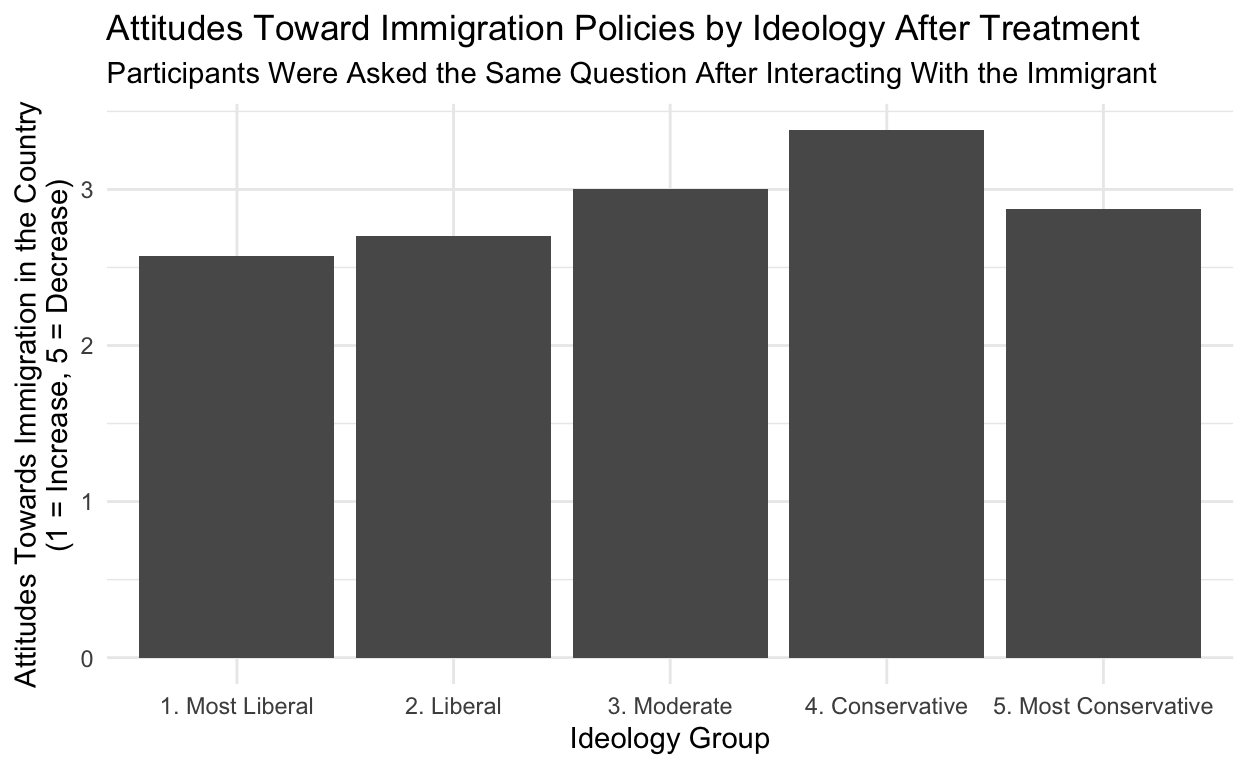
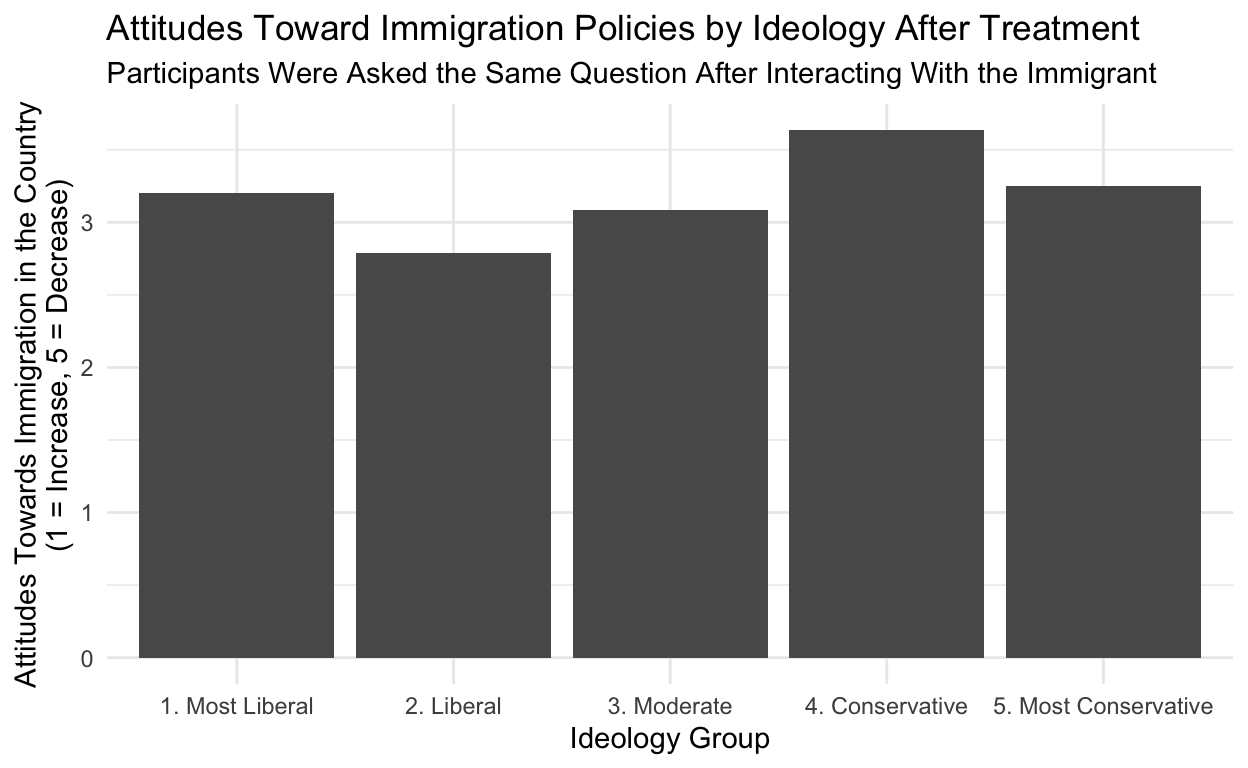
final project

diff --git a/index.html b/index.html
@@ -115,7 +115,7 @@ code span.wa { color: #5e5e5e; font-style: italic; } /* Warning */
   <!--/radix_placeholder_rmarkdown_metadata-->
   
   <script type="text/json" id="radix-resource-manifest">
-  {"type":"character","attributes":{},"value":["index_files/anchor-4.2.2/anchor.min.js","index_files/bowser-1.9.3/bowser.min.js","index_files/distill-2.2.21/template.v2.js","index_files/figure-html5/unnamed-chunk-4-1.png","index_files/figure-html5/unnamed-chunk-5-1.png","index_files/figure-html5/unnamed-chunk-6-1.png","index_files/figure-html5/unnamed-chunk-7-1.png","index_files/figure-html5/unnamed-chunk-8-1.png","index_files/header-attrs-2.17/header-attrs.js","index_files/header-attrs-2.28/header-attrs.js","index_files/header-attrs-2.29/header-attrs.js","index_files/jquery-3.6.0/jquery-3.6.0.js","index_files/jquery-3.6.0/jquery-3.6.0.min.js","index_files/jquery-3.6.0/jquery-3.6.0.min.map","index_files/popper-2.6.0/popper.min.js","index_files/tippy-6.2.7/tippy-bundle.umd.min.js","index_files/tippy-6.2.7/tippy-light-border.css","index_files/tippy-6.2.7/tippy.css","index_files/tippy-6.2.7/tippy.umd.min.js","index_files/webcomponents-2.0.0/webcomponents.js"]}
+  {"type":"character","attributes":{},"value":["index_files/anchor-4.2.2/anchor.min.js","index_files/bowser-1.9.3/bowser.min.js","index_files/distill-2.2.21/template.v2.js","index_files/figure-html5/unnamed-chunk-10-1.png","index_files/figure-html5/unnamed-chunk-4-1.png","index_files/figure-html5/unnamed-chunk-5-1.png","index_files/figure-html5/unnamed-chunk-6-1.png","index_files/figure-html5/unnamed-chunk-7-1.png","index_files/figure-html5/unnamed-chunk-8-1.png","index_files/figure-html5/unnamed-chunk-9-1.png","index_files/header-attrs-2.17/header-attrs.js","index_files/header-attrs-2.28/header-attrs.js","index_files/header-attrs-2.29/header-attrs.js","index_files/jquery-3.6.0/jquery-3.6.0.js","index_files/jquery-3.6.0/jquery-3.6.0.min.js","index_files/jquery-3.6.0/jquery-3.6.0.min.map","index_files/popper-2.6.0/popper.min.js","index_files/tippy-6.2.7/tippy-bundle.umd.min.js","index_files/tippy-6.2.7/tippy-light-border.css","index_files/tippy-6.2.7/tippy.css","index_files/tippy-6.2.7/tippy.umd.min.js","index_files/webcomponents-2.0.0/webcomponents.js"]}
   </script>
   <!--radix_placeholder_navigation_in_header-->
   <!--/radix_placeholder_navigation_in_header-->
@@ -1621,11 +1621,16 @@ code span.wa { color: #5e5e5e; font-style: italic; } /* Warning */
 3 3. Moderate                   3.08         3.33        -0.25  
 4 4. Conservative               3.64         3.55         0.0909
 5 5. Most Conservative          3.25         4           -0.75  </code></pre>
+<div class="sourceCode">
+<pre class="sourceCode r"><code class="sourceCode r"><span><span class='va'>trains</span> <span class='op'>&lt;-</span> <span class='va'>trains</span> <span class='op'>|&gt;</span></span>
+<span>   <span class='fu'><a href='https://dplyr.tidyverse.org/reference/mutate.html'>mutate</a></span><span class='op'>(</span>average_change <span class='op'>=</span> <span class='va'>numberim.post</span> <span class='op'>-</span> <span class='va'>numberim.pre</span><span class='op'>)</span></span></code></pre>
+</div>
 </div>
 <div class="layout-chunk" data-layout="l-body">
 <div class="sourceCode">
 <pre class="sourceCode r"><code class="sourceCode r"><span><span class='va'>pre_treatment</span> <span class='op'>&lt;-</span> <span class='va'>trains</span> <span class='op'>|&gt;</span></span>
 <span>  <span class='fu'><a href='https://dplyr.tidyverse.org/reference/mutate.html'>mutate</a></span><span class='op'>(</span>treatment <span class='op'>=</span> <span class='fu'><a href='https://dplyr.tidyverse.org/reference/if_else.html'>if_else</a></span><span class='op'>(</span><span class='va'>treatment</span> <span class='op'>==</span> <span class='fl'>1</span>, <span class='st'>"Treated"</span>, <span class='st'>"Control"</span><span class='op'>)</span><span class='op'>)</span> <span class='op'>|&gt;</span></span>
+<span>  <span class='fu'><a href='https://dplyr.tidyverse.org/reference/filter.html'>filter</a></span><span class='op'>(</span><span class='va'>treatment</span> <span class='op'>==</span> <span class='st'>"Treated"</span><span class='op'>)</span> <span class='op'>|&gt;</span></span>
 <span>  <span class='fu'><a href='https://dplyr.tidyverse.org/reference/group_by.html'>group_by</a></span><span class='op'>(</span><span class='va'>ideology_group</span><span class='op'>)</span> <span class='op'>|&gt;</span></span>
 <span>  <span class='fu'><a href='https://dplyr.tidyverse.org/reference/summarise.html'>summarize</a></span><span class='op'>(</span>numberim.pre <span class='op'>=</span> <span class='fu'><a href='https://rdrr.io/r/base/mean.html'>mean</a></span><span class='op'>(</span><span class='va'>numberim.pre</span>, na.rm <span class='op'>=</span> <span class='cn'>TRUE</span><span class='op'>)</span><span class='op'>)</span> <span class='op'>|&gt;</span></span>
 <span>  <span class='fu'><a href='https://dplyr.tidyverse.org/reference/mutate.html'>mutate</a></span><span class='op'>(</span>pre_treatment <span class='op'>=</span> <span class='va'>numberim.pre</span><span class='op'>)</span></span>
@@ -1634,16 +1639,17 @@ code span.wa { color: #5e5e5e; font-style: italic; } /* Warning */
 <pre><code># A tibble: 5 × 3
   ideology_group       numberim.pre pre_treatment
   &lt;chr&gt;                       &lt;dbl&gt;         &lt;dbl&gt;
-1 1. Most Liberal              2.57          2.57
-2 2. Liberal                   2.6           2.6 
-3 3. Moderate                  3.03          3.03
-4 4. Conservative              3.38          3.38
+1 1. Most Liberal              3             3   
+2 2. Liberal                   2.26          2.26
+3 3. Moderate                  3.33          3.33
+4 4. Conservative              3.55          3.55
 5 5. Most Conservative         4             4   </code></pre>
 </div>
 <div class="layout-chunk" data-layout="l-body">
 <div class="sourceCode">
 <pre class="sourceCode r"><code class="sourceCode r"><span><span class='va'>post_treatment</span> <span class='op'>&lt;-</span> <span class='va'>trains</span> <span class='op'>|&gt;</span></span>
 <span>  <span class='fu'><a href='https://dplyr.tidyverse.org/reference/mutate.html'>mutate</a></span><span class='op'>(</span>treatment <span class='op'>=</span> <span class='fu'><a href='https://dplyr.tidyverse.org/reference/if_else.html'>if_else</a></span><span class='op'>(</span><span class='va'>treatment</span> <span class='op'>==</span> <span class='fl'>1</span>, <span class='st'>"Treated"</span>, <span class='st'>"Control"</span><span class='op'>)</span><span class='op'>)</span> <span class='op'>|&gt;</span></span>
+<span>  <span class='fu'><a href='https://dplyr.tidyverse.org/reference/filter.html'>filter</a></span><span class='op'>(</span><span class='va'>treatment</span> <span class='op'>==</span> <span class='st'>"Treated"</span><span class='op'>)</span> <span class='op'>|&gt;</span></span>
 <span>  <span class='fu'><a href='https://dplyr.tidyverse.org/reference/group_by.html'>group_by</a></span><span class='op'>(</span><span class='va'>ideology_group</span><span class='op'>)</span> <span class='op'>|&gt;</span></span>
 <span>  <span class='fu'><a href='https://dplyr.tidyverse.org/reference/summarise.html'>summarize</a></span><span class='op'>(</span>numberim.post <span class='op'>=</span> <span class='fu'><a href='https://rdrr.io/r/base/mean.html'>mean</a></span><span class='op'>(</span><span class='va'>numberim.post</span>, na.rm <span class='op'>=</span> <span class='cn'>TRUE</span><span class='op'>)</span><span class='op'>)</span> <span class='op'>|&gt;</span></span>
 <span>  <span class='fu'><a href='https://dplyr.tidyverse.org/reference/mutate.html'>mutate</a></span><span class='op'>(</span>post_treatment <span class='op'>=</span> <span class='va'>numberim.post</span><span class='op'>)</span></span>
@@ -1652,11 +1658,11 @@ code span.wa { color: #5e5e5e; font-style: italic; } /* Warning */
 <pre><code># A tibble: 5 × 3
   ideology_group       numberim.post post_treatment
   &lt;chr&gt;                        &lt;dbl&gt;          &lt;dbl&gt;
-1 1. Most Liberal               2.57           2.57
-2 2. Liberal                    2.7            2.7 
-3 3. Moderate                   3              3   
-4 4. Conservative               3.38           3.38
-5 5. Most Conservative          2.88           2.88</code></pre>
+1 1. Most Liberal               3.2            3.2 
+2 2. Liberal                    2.79           2.79
+3 3. Moderate                   3.08           3.08
+4 4. Conservative               3.64           3.64
+5 5. Most Conservative          3.25           3.25</code></pre>
 </div>
 <h2 id="bar-graph-showing-participant-attitudes-toward-immigration-policies-before-treatment">Bar Graph Showing Participant Attitudes Toward Immigration Policies Before Treatment</h2>
 <div class="layout-chunk" data-layout="l-body">
@@ -1706,62 +1712,64 @@ code span.wa { color: #5e5e5e; font-style: italic; } /* Warning */
 <p><img src="index_files/figure-html5/unnamed-chunk-8-1.png" width="624" /></p>
 </div>
 <h2 id="results">Results</h2>
+<p>The table shows the average attitudes regarding immigration in the country before and after interacting with an immigrant from a scale of 1-5, where 1 represents the most pro-immigration attitudes and 5 represents the least pro-immigration attitudes. Additionally, it highlights the average change in attitudes for each ideology group due to this interaction. The table indicates that the most conservative participants were least supportive of increasing the number of immigrants in the country, while the most liberal participants were most supportive. This is to be expected, as the conservative ideology tends to be more supportive of stronger border control to limit the accessibility for immigrants to come into the country. The graph that represents the shift in attitudes regarding immigration policies after the participants interacted with the immigrant indicates that the participants in the “Most Conservative” ideology group had the greatest shift in attitudes compared to the other ideology groups. Additionally, the graph shows this ideology group had a significant negative shift, meaning that after they interacted with the immigrant, their attitudes shifted towards more pro-immigration policies, supporting my hypothesis. Finally, the last column in the table represents the attitudes of the participants after interacting with the immigrant. As I hypothesized, the attitudes regarding immigration policies after the treatment shows that the more liberal ideological groups tended to have a smaller shift in attitude. This is also consistent within liberal ideologies, as these political groups already tend to favor pro-immigration policies. Therefore, according to this data, political ideologies are associated with attitudes toward immigration policies. Furthermore, the “Most Conservative” ideology group had a much more significant shift in attitudes regarding these policies compared to the “Most Liberal” ideology group.</p>
+<h2 id="introduction">Introduction</h2>
+<p>My research observed how political ideologies are associated with attitudes toward immigration policies, specifically looking how the level of attitude shifts regarding these policies differed depending on the political demographic of the participant. My hypothesis is that the participants with more conservative ideologies will be initially less likely to support increasing the number of immigrants allowed in the country, but after interacting with foreigners they will have a greater positive shift in attitudes towards pro-immigration policies compared to those with democratic views. I expect that people who are more liberal will have a smaller shift after this interaction, as they already tend to favor pro-immigration policies.</p>
+<p>This is significant, particularly in our country where immigration is a very politically charged topic, as it may seek to explain how individuals’ beliefs and values evolve, while also bridging the current nation-wide political divide. By exploring how there may be some common ground between Conservatives and Liberals, this research may be able to help dismantle political polarization and enable greater opportunities for healthy discourse that can offer potential solutions to current policy debates, in this case regarding immigration.</p>
+<h2 id="data">Data</h2>
+<p>The data for this research comes from a randomized field experiment conducted by Harvard Professor, Ryan Enos. He focused on individuals from overwhelmingly white communities who rode the communal rail line, and explored how exposure to demographic change affected their political views. His study was published in the article “Causal Effect of Intergroup Contact on Exclusionary Attitudes.” In the experiment, the trains were randomly assigned to either the “Treated group” or the “Control group,” where the treatment involved the presence of two native Spanish-speaking confederates meant to simulate the predicted demographic change in the United States.</p>
+<p>The independent variable is the political ideologies of the participants, measured by the survey data for each participant from the experiment. Political ideologies are likely to impact individuals’ pre-existing beliefs, which would set a baseline for their attitudes towards immigration before treatment, and may impact their responses to treatment. Through this method, we can determine how the treatment effects differ depending on the participants’ political ideology.</p>
+<p>The dependent variable, the participants’ shift in attitudes regarding immigration policies, is measured using a survey question, on a 5 point scale, before and after the treatment. Participants were asked whether or not the number of immigrants in the country should increase or decrease, where 1 indicates the participant believes the number of immigrants should increase and 5 indicates the participant believes the number of immigrants should decrease. The attitude shift of each ideology group is represented by the difference between their responses before and after treatment.</p>
 <div class="layout-chunk" data-layout="l-body">
 <div class="sourceCode">
-<pre class="sourceCode r"><code class="sourceCode r"><span><span class='va'>attitude_change_summary</span> <span class='op'>&lt;-</span> <span class='va'>trains</span> <span class='op'>|&gt;</span></span>
-<span>  <span class='fu'><a href='https://dplyr.tidyverse.org/reference/summarise.html'>summarize</a></span><span class='op'>(</span></span>
-<span>    <span class='va'>pre_treatment</span>,</span>
-<span>    <span class='va'>average_change</span>,</span>
-<span>    <span class='va'>post_treatment</span></span>
-<span>  <span class='op'>)</span> <span class='op'>|&gt;</span></span>
-<span>  <span class='fu'><a href='https://dplyr.tidyverse.org/reference/select.html'>select</a></span><span class='op'>(</span><span class='op'>-</span><span class='va'>numberim.pre</span>, <span class='op'>-</span><span class='va'>numberim.post</span><span class='op'>)</span></span>
-<span><span class='fu'>knitr</span><span class='fu'>::</span><span class='fu'><a href='https://rdrr.io/pkg/knitr/man/kable.html'>kable</a></span><span class='op'>(</span><span class='va'>attitude_change_summary</span><span class='op'>)</span></span></code></pre>
+<pre class="sourceCode r"><code class="sourceCode r"><span><span class='va'>pre_treatment_plot</span> <span class='op'>&lt;-</span> <span class='fu'><a href='https://ggplot2.tidyverse.org/reference/ggplot.html'>ggplot</a></span><span class='op'>(</span><span class='va'>pre_treatment</span>, <span class='fu'><a href='https://ggplot2.tidyverse.org/reference/aes.html'>aes</a></span><span class='op'>(</span>x <span class='op'>=</span> <span class='va'>ideology_group</span>,</span>
+<span>                                               y <span class='op'>=</span> <span class='va'>pre_treatment</span><span class='op'>)</span><span class='op'>)</span> <span class='op'>+</span></span>
+<span>  <span class='fu'><a href='https://ggplot2.tidyverse.org/reference/geom_bar.html'>geom_bar</a></span><span class='op'>(</span>stat <span class='op'>=</span> <span class='st'>"identity"</span><span class='op'>)</span> <span class='op'>+</span></span>
+<span>  <span class='fu'><a href='https://ggplot2.tidyverse.org/reference/labs.html'>labs</a></span><span class='op'>(</span>title <span class='op'>=</span> <span class='st'>"Attitudes Toward Immigration Policies by Ideology Before Treatment"</span>,</span>
+<span>       x <span class='op'>=</span> <span class='st'>"Ideology Group"</span>,</span>
+<span>       y <span class='op'>=</span> <span class='st'>"Attitudes Towards Immigration in the Country</span></span>
+<span><span class='st'>       (1 = Increase, 5 = Decrease)"</span>,</span>
+<span>       subtitle <span class='op'>=</span> <span class='st'>"Participants Were Asked if the Number of Immigrants in the Country Should Increase or Decrease"</span><span class='op'>)</span> <span class='op'>+</span></span>
+<span>  <span class='fu'><a href='https://ggplot2.tidyverse.org/reference/ggtheme.html'>theme_minimal</a></span><span class='op'>(</span><span class='op'>)</span></span>
+<span><span class='va'>pre_treatment_plot</span></span></code></pre>
 </div>
-<table>
-<thead>
-<tr class="header">
-<th style="text-align: left;">ideology_group</th>
-<th style="text-align: right;">pre_treatment</th>
-<th style="text-align: right;">average_change</th>
-<th style="text-align: right;">post_treatment</th>
-</tr>
-</thead>
-<tbody>
-<tr class="odd">
-<td style="text-align: left;">1. Most Liberal</td>
-<td style="text-align: right;">2.571429</td>
-<td style="text-align: right;">0.2000000</td>
-<td style="text-align: right;">2.571429</td>
-</tr>
-<tr class="even">
-<td style="text-align: left;">2. Liberal</td>
-<td style="text-align: right;">2.600000</td>
-<td style="text-align: right;">0.5263158</td>
-<td style="text-align: right;">2.700000</td>
-</tr>
-<tr class="odd">
-<td style="text-align: left;">3. Moderate</td>
-<td style="text-align: right;">3.031250</td>
-<td style="text-align: right;">-0.2500000</td>
-<td style="text-align: right;">3.000000</td>
-</tr>
-<tr class="even">
-<td style="text-align: left;">4. Conservative</td>
-<td style="text-align: right;">3.380952</td>
-<td style="text-align: right;">0.0909091</td>
-<td style="text-align: right;">3.380952</td>
-</tr>
-<tr class="odd">
-<td style="text-align: left;">5. Most Conservative</td>
-<td style="text-align: right;">4.000000</td>
-<td style="text-align: right;">-0.7500000</td>
-<td style="text-align: right;">2.875000</td>
-</tr>
-</tbody>
-</table>
+<p><img src="index_files/figure-html5/unnamed-chunk-9-1.png" width="624" /></p>
 </div>
-<p>The table shows the average attitudes regarding immigration in the country before and after interacting with an immigrant from a scale of 1-5, where 1 represents the most pro-immigration attitudes and 5 represents the least pro-immigration attitudes. Additionally, it highlights the average change in attitudes for each ideology group due to this interaction. The table indicates that the most conservative participants were least supportive of increasing the number of immigrants in the country, while the most liberal participants were most supportive. This is to be expected, as the conservative ideology tends to be more supportive of stronger border control to limit the accessibility for immigrants to come into the country. The graph that represents the shift in attitudes regarding immigration policies after the participants interacted with the immigrant indicates that the participants in the “Most Conservative” ideology group had the greatest shift in attitudes compared to the other ideology groups. Additionally, the graph shows this ideology group had a significant negative shift, meaning that after they interacted with the immigrant, their attitudes shifted towards more pro-immigration policies, supporting my hypothesis. Finally, the last column in the table represents the attitudes of the participants after interacting with the immigrant. As I hypothesized, the attitudes regarding immigration policies after the treatment shows that the more liberal ideological groups tended to have a smaller shift in attitude. This is also consistent within liberal ideologies, as these political groups already tend to favor pro-immigration policies. Therefore, according to this data, political ideologies are associated with attitudes toward immigration policies. Furthermore, the “Most Conservative” ideology group had a much more significant shift in attitudes regarding these policies compared to the “Most Liberal” ideology group.</p>
-<div class="sourceCode" id="cb6"><pre class="sourceCode r distill-force-highlighting-css"><code class="sourceCode r"></code></pre></div>
+<p>This table shows the relationship between the political ideologies of the participants and how they felt about whether immigrants in the country should increase or decrease before treatment. From this table, the data indicates that the participants who were most conservative had the most negative views towards immigration in the country, whereas the liberal participants had more positive views towards immigration. This is to be expected, as these beliefs align with the traditional values of Conservative and Liberal political ideologies. My research explores how the differing political ideologies will result in different levels of shifts in attitudes.</p>
+<h2 id="results-1">Results</h2>
+<h2 id="participants-shifts-in-attitudes-toward-immigration-policies-after-treatment">Participants’ Shifts in Attitudes Toward Immigration Policies After Treatment</h2>
+<div class="layout-chunk" data-layout="l-body">
+<div class="sourceCode">
+<pre class="sourceCode r"><code class="sourceCode r"><span><span class='va'>ideology_shift_plot</span> <span class='op'>&lt;-</span> <span class='fu'><a href='https://ggplot2.tidyverse.org/reference/ggplot.html'>ggplot</a></span><span class='op'>(</span><span class='va'>average_change</span>, <span class='fu'><a href='https://ggplot2.tidyverse.org/reference/aes.html'>aes</a></span><span class='op'>(</span>x <span class='op'>=</span> <span class='va'>ideology_group</span>, </span>
+<span>                                            y <span class='op'>=</span> <span class='va'>average_change</span><span class='op'>)</span><span class='op'>)</span> <span class='op'>+</span></span>
+<span>  <span class='fu'><a href='https://ggplot2.tidyverse.org/reference/geom_bar.html'>geom_bar</a></span><span class='op'>(</span>stat <span class='op'>=</span> <span class='st'>"identity"</span><span class='op'>)</span> <span class='op'>+</span></span>
+<span>   <span class='fu'><a href='https://ggplot2.tidyverse.org/reference/labs.html'>labs</a></span><span class='op'>(</span>title <span class='op'>=</span> <span class='st'>"Shift in Attitudes Toward Immigration Policies by Ideology After Treatment"</span>,</span>
+<span>       x <span class='op'>=</span> <span class='st'>"Ideology Group"</span>,</span>
+<span>       y <span class='op'>=</span> <span class='st'>"Average Change in Immigration Policy Attitudes"</span>,</span>
+<span>       subtitle <span class='op'>=</span> <span class='st'>"The participants were later asked the same question, reflecting the difference in attitudes before and after interacting with the foreigners"</span><span class='op'>)</span> <span class='op'>+</span></span>
+<span>  <span class='fu'><a href='https://ggplot2.tidyverse.org/reference/ggtheme.html'>theme_minimal</a></span><span class='op'>(</span><span class='op'>)</span></span>
+<span><span class='va'>ideology_shift_plot</span></span></code></pre>
+</div>
+<p><img src="index_files/figure-html5/unnamed-chunk-10-1.png" width="624" /></p>
+</div>
+<p>This bar graph shows the average change in attitudes towards immigration policies after treatment, representing the difference in the attitudes from before and after participants interacted with the foreigners. The average change in attitudes shows either a positive or negative shift from their pre-existing beliefs before treatment. The scale used in this analysis indicates that a value of 1 reflects a positive attitude towards immigration, while a value of 5 reflects a negative attitude towards immigration. Since lower values reveal a more positive attitude towards immigration, a decrease in value after treatment suggests a positive shift in attitudes towards immigration. On the other hand, an increase in value after treatment would suggest a negative shift in attitudes towards immigration. From this data, the participants in the “Most Conservative” group experienced a strong positive shift in attitudes after treatment, forming a more supportive stance to immigration than before. Interestingly, the participants in the “Liberal” group experienced a negative shift away from positive immigration attitudes.</p>
+<div class="layout-chunk" data-layout="l-body">
+<div class="sourceCode">
+<pre class="sourceCode r"><code class="sourceCode r"><span><span class='kw'><a href='https://rdrr.io/r/base/library.html'>library</a></span><span class='op'>(</span><span class='va'><a href='https://broom.tidymodels.org/'>broom</a></span><span class='op'>)</span></span>
+<span><span class='va'>reg</span> <span class='op'>&lt;-</span> <span class='fu'><a href='https://rdrr.io/r/stats/lm.html'>lm</a></span><span class='op'>(</span><span class='va'>average_change</span> <span class='op'>~</span> <span class='va'>ideology_group</span>, data <span class='op'>=</span> <span class='va'>trains</span><span class='op'>)</span></span>
+<span><span class='va'>reg_table</span> <span class='op'>&lt;-</span> <span class='fu'><a href='https://generics.r-lib.org/reference/tidy.html'>tidy</a></span><span class='op'>(</span><span class='va'>reg</span><span class='op'>)</span></span>
+<span><span class='va'>reg_table</span></span></code></pre>
+</div>
+<pre><code># A tibble: 5 × 5
+  term                            estimate std.error statistic p.value
+  &lt;chr&gt;                              &lt;dbl&gt;     &lt;dbl&gt;     &lt;dbl&gt;   &lt;dbl&gt;
+1 (Intercept)                    -2.20e-16     0.209 -1.05e-15 1.00   
+2 ideology_group2. Liberal        1.00e- 1     0.243  4.11e- 1 0.682  
+3 ideology_group3. Moderate      -3.13e- 2     0.251 -1.25e- 1 0.901  
+4 ideology_group4. Conservative   3.11e-16     0.270  1.15e-15 1.00   
+5 ideology_group5. Most Conserv… -1.12e+ 0     0.347 -3.24e+ 0 0.00157</code></pre>
+</div>
+<div class="sourceCode" id="cb7"><pre class="sourceCode r distill-force-highlighting-css"><code class="sourceCode r"></code></pre></div>
 <!--radix_placeholder_article_footer-->
 <!--/radix_placeholder_article_footer-->
 </div>
